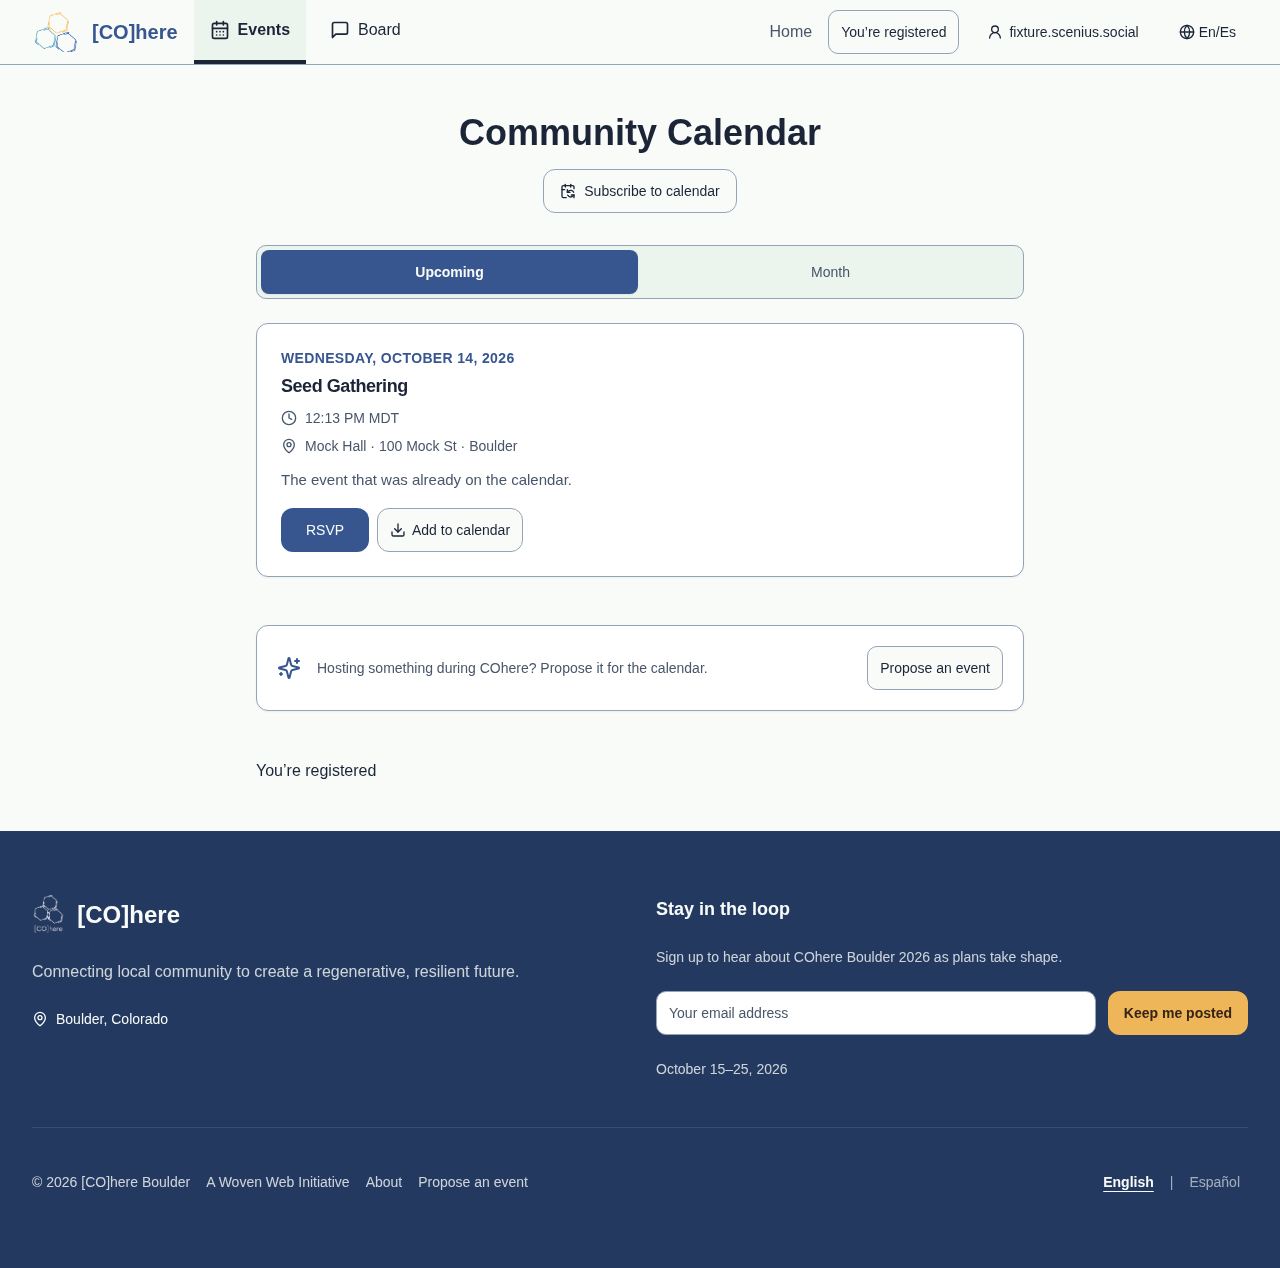
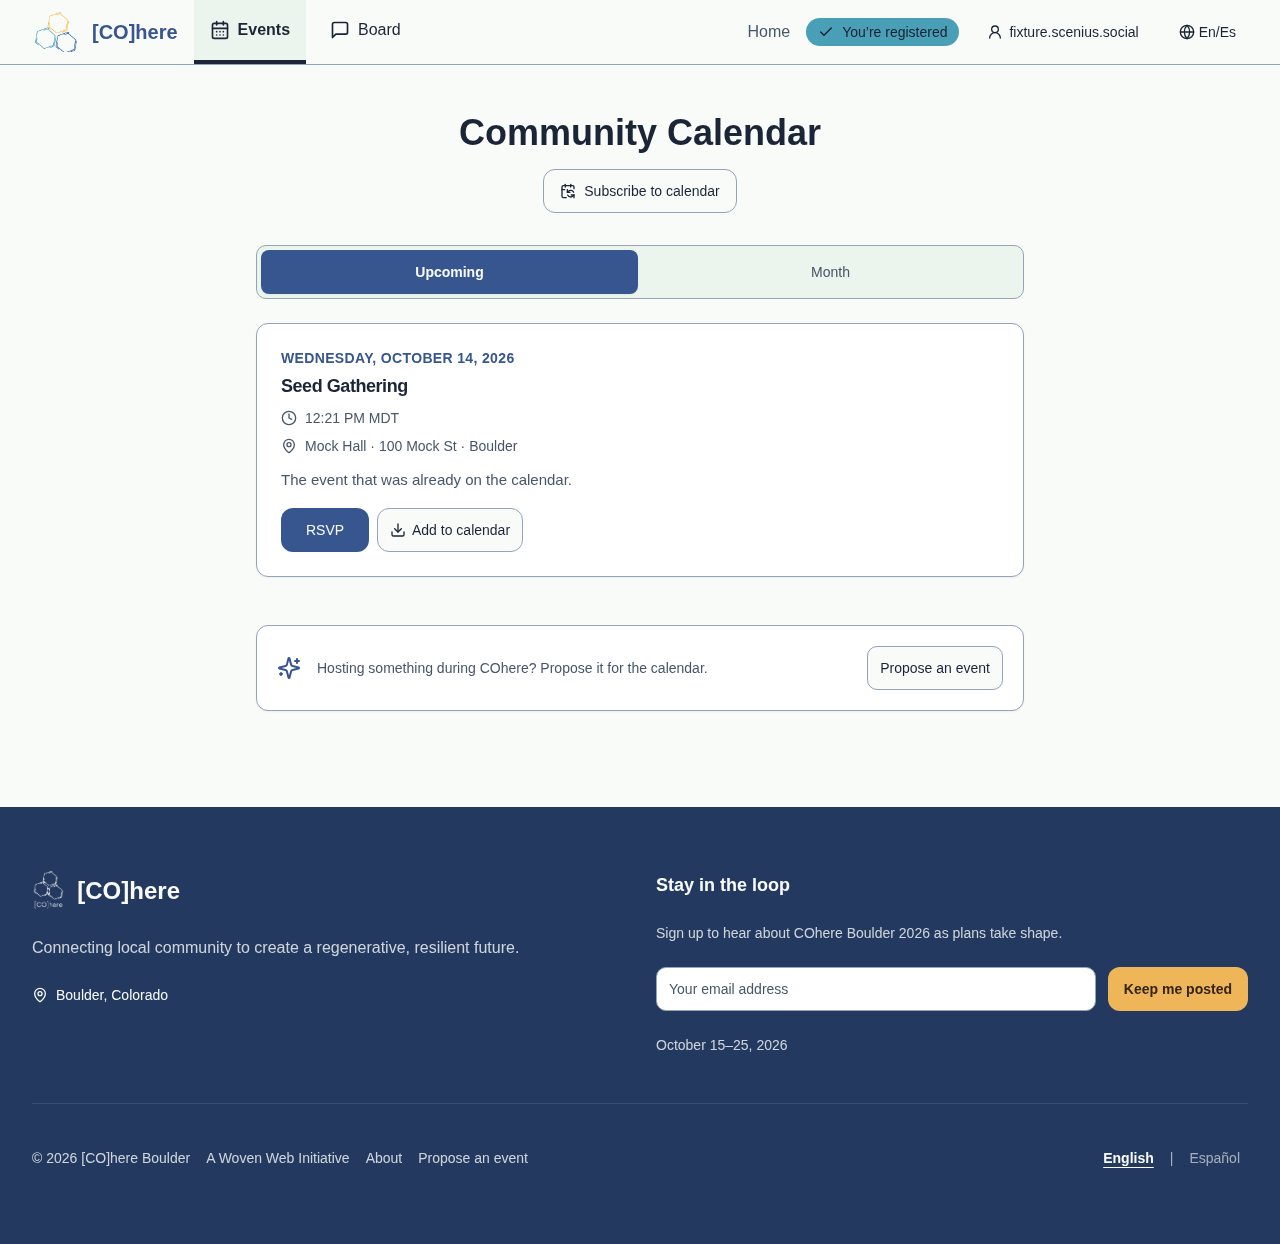
Make registration status a non-interactive badge

diff --git a/src/pages/Calendar.tsx b/src/pages/Calendar.tsx
@@ -16,7 +16,7 @@ import { Link } from "react-router-dom";
 import { CalendarPlus, Loader2, Pencil, Sparkles, Trash2 } from "lucide-react";
 import { useLanguage } from "@/contexts/LanguageContext";
 import { getTranslation } from "@/lib/translations";
-import { useRegenosSession, useSiteConfig } from "@/hooks/useRegenos";
+import { useMyRegistration, useRegenosSession, useSiteConfig } from "@/hooks/useRegenos";
 import { describeWriteError, fetchSceneRoster, xrpcPost } from "@/lib/regenos";
 import { canHostScene } from "@/lib/hostAccess";
 import { buildDeleteEventInput } from "@/lib/eventForm";
@@ -39,6 +39,7 @@ export default function CalendarPage() {
   const hostingOn = config?.regenosLoginEnabled === true;
   const { data: session } = useRegenosSession(hostingOn);
   const signedIn = Boolean(session?.did);
+  const { data: registration } = useMyRegistration();
   const today = denverDateKey(new Date().toISOString())!;
   const tomorrow = denverDateKey(new Date(Date.now() + 86400000).toISOString());
   const todayEvents = today >= "2026-10-15" && today <= "2026-10-25"
@@ -209,7 +210,7 @@ export default function CalendarPage() {
               {signedIn ? (
                 <>
                   <div className="flex flex-wrap items-center gap-3">
-                    <RegistrationAction />
+                    {!registration?.registered && <RegistrationAction />}
                     {/* No collective DID means nothing to create an event
                         under — the form below would never render, so don't
                         offer a button that does nothing. */}

diff --git a/src/components/RegistrationAction.tsx b/src/components/RegistrationAction.tsx
@@ -1,3 +1,4 @@
+import { Check } from "lucide-react";
 import { cn } from "@/lib/utils";
 import { forwardRef } from "react";
 import { Link } from "react-router-dom";
@@ -10,7 +11,16 @@ export const RegistrationAction = forwardRef<HTMLElement, Props>(function Regist
   const { data: config } = useSiteConfig();
   const { data: session } = useRegenosSession(config?.regenosLoginEnabled === true);
   const { data } = useMyRegistration();
-  if (data?.registered) return <span {...props} ref={ref as React.Ref<HTMLSpanElement>} role="status">{tr("app.registered")}</span>;
+  if (data?.registered) return (
+    <span
+      ref={ref as React.Ref<HTMLSpanElement>}
+      role="status"
+      className={cn(props.className, "items-center justify-center gap-2 border-0 rounded-full w-fit h-auto min-h-0 mx-auto px-3 py-1 bg-secondary text-secondary-foreground shadow-none cursor-default hover:bg-secondary hover:text-secondary-foreground hover:shadow-none hover:scale-100")}
+    >
+      <Check className="h-4 w-4 shrink-0" aria-hidden="true" />
+      {tr("app.registered")}
+    </span>
+  );
   const quiet = Boolean(session?.did) && data?.registered !== false;
   return <Link {...props} className={quiet ? cn(props.className, "border-0 bg-transparent shadow-none hover:bg-transparent text-sm text-muted-foreground underline underline-offset-4") : props.className} ref={ref as React.Ref<HTMLAnchorElement>} to="/register">{tr(session?.did ? data?.registered === false ? "app.registerGathering" : "nav.register" : anonymousKey)}</Link>;
 });

diff --git a/src/components/RegistrationAction.test.tsx b/src/components/RegistrationAction.test.tsx
@@ -8,7 +8,13 @@ import { RegistrationAction } from "./RegistrationAction";
 it.each([true, false, null])("renders registration state %s", registered => {
   state.registered = registered;
   const html = renderToStaticMarkup(<MemoryRouter><RegistrationAction className="button-style" /></MemoryRouter>);
-  if (registered !== null) expect(html).toContain('class="button-style"');
+  if (registered === false) expect(html).toContain('class="button-style"');
+  else if (registered) {
+    expect(html).toContain('role="status"');
+    expect(html).toContain("border-0");
+    expect(html).toContain("lucide-check");
+    expect(html).not.toContain("tabindex");
+  }
   else expect(html).toContain("text-muted-foreground");
   expect(html.includes('href="/register"')).toBe(registered !== true);
   expect(html).toContain(registered ? "app.registered" : registered === false ? "app.registerGathering" : "nav.register");
